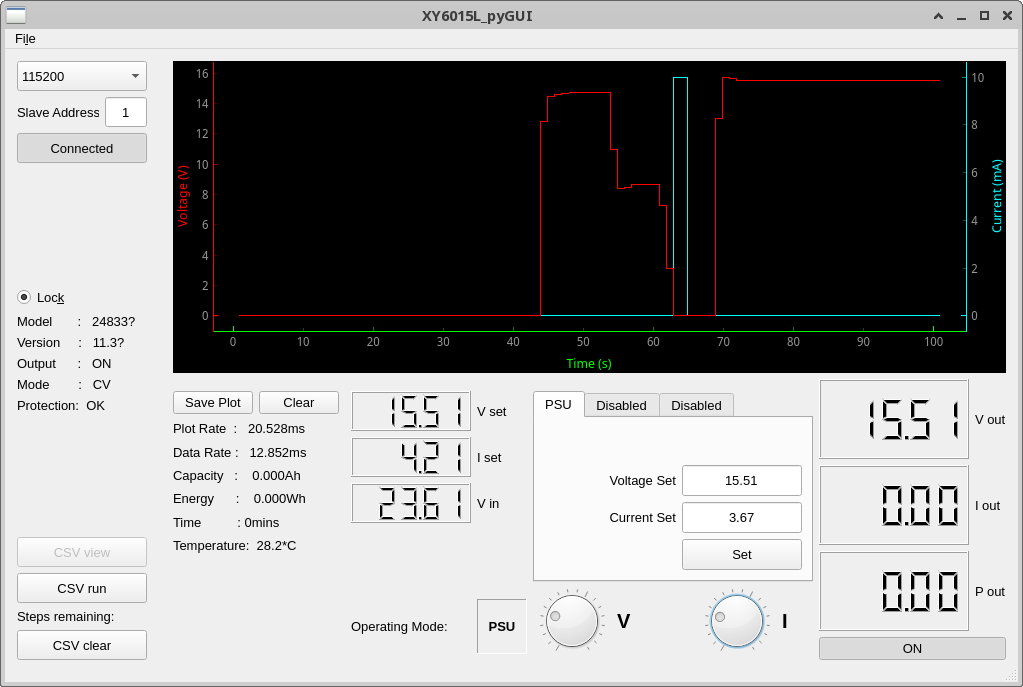
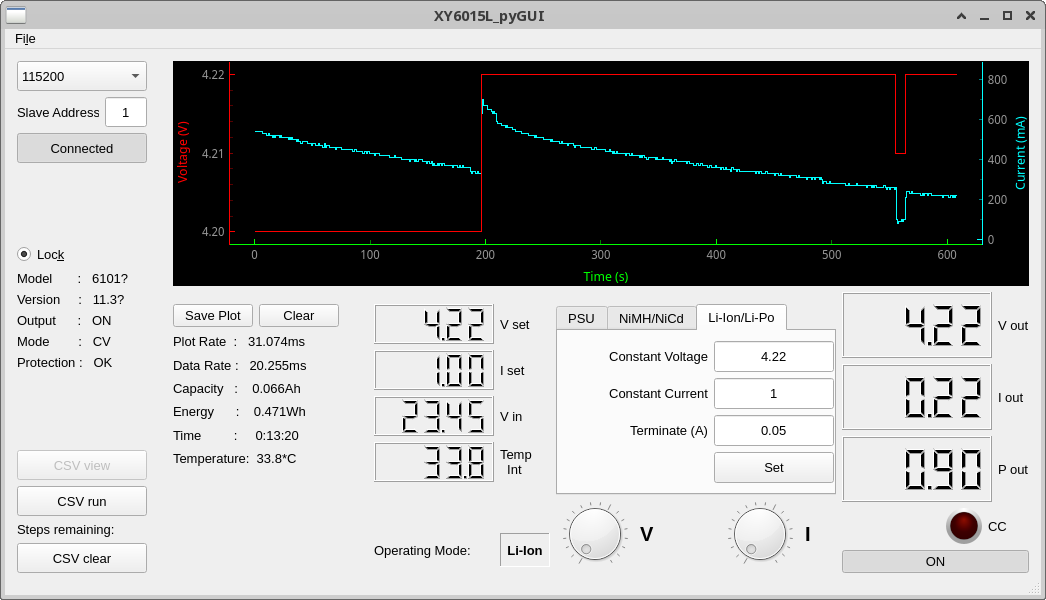
Added LEDs to the GUI
Fixed dps_modbus.py

diff --git a/source_files/dps_modbus.py b/source_files/dps_modbus.py
@@ -103,37 +103,37 @@ class Dps5005:
 	def version(self):	# R
 		return self.function(23, self.limits.decimals_version)
 
-	def extract_m(self, RWaction='r', value=0.0):	# R/W
-		return self.function(0x23, 0, RWaction, value, self.limits.extract_m_set_max, self.limits.extract_m_set_min) # reg_addr, decimal_places, RWaction, value, max_value, min_value
+	# def extract_m(self, RWaction='r', value=0.0):	# R/W
+		# return self.function(0x23, 0, RWaction, value, self.limits.extract_m_set_max, self.limits.extract_m_set_min) # reg_addr, decimal_places, RWaction, value, max_value, min_value
 				
-#---		
+# #---		
 		
-	def voltage_set2(self, RWaction='r', value=0.0):	# R/W
-		return self.function(0x50, self.limits.decimals_vset, RWaction, value, self.limits.voltage_set2_max, self.limits.voltage_set2_min) # reg_addr, decimal_places, RWaction, value, max_value, min_value
+	# def voltage_set2(self, RWaction='r', value=0.0):	# R/W
+		# return self.function(0x50, self.limits.decimals_vset, RWaction, value, self.limits.voltage_set2_max, self.limits.voltage_set2_min) # reg_addr, decimal_places, RWaction, value, max_value, min_value
 			
-	def current_set2(self, RWaction='r', value=0.0):	# R/W
-		return self.function(0x51, self.limits.decimals_iset, RWaction, value, self.limits.current_set2_max, self.limits.current_set2_min) # reg_addr, decimal_places, RWaction, value, max_value, min_value
+	# def current_set2(self, RWaction='r', value=0.0):	# R/W
+		# return self.function(0x51, self.limits.decimals_iset, RWaction, value, self.limits.current_set2_max, self.limits.current_set2_min) # reg_addr, decimal_places, RWaction, value, max_value, min_value
 
-	def s_ovp(self, RWaction='r', value=0):	# R/W
-		return self.function(0x52, self.limits.decimals_ovp, RWaction, value, self.limits.s_ovp_set_max, self.limits.s_ovp_set_min) # reg_addr, decimal_places, RWaction, value, max_value, min_value
+	# def s_ovp(self, RWaction='r', value=0):	# R/W
+		# return self.function(0x52, self.limits.decimals_ovp, RWaction, value, self.limits.s_ovp_set_max, self.limits.s_ovp_set_min) # reg_addr, decimal_places, RWaction, value, max_value, min_value
 		
-	def s_ocp(self, RWaction='r', value=0):	# R/W
-		return self.function(0x53, self.limits.decimals_ocp, RWaction, value, self.limits.s_ocp_set_max, self.limits.s_ocp_set_min) # reg_addr, decimal_places, RWaction, value, max_value, min_value
+	# def s_ocp(self, RWaction='r', value=0):	# R/W
+		# return self.function(0x53, self.limits.decimals_ocp, RWaction, value, self.limits.s_ocp_set_max, self.limits.s_ocp_set_min) # reg_addr, decimal_places, RWaction, value, max_value, min_value
 
-	def s_opp(self, RWaction='r', value=0):	# R/W
-		return self.function(0x54, self.limits.decimals_opp, RWaction, value, self.limits.s_opp_set_max, self.limits.s_opp_set_min) # reg_addr, decimal_places, RWaction, value, max_value, min_value
+	# def s_opp(self, RWaction='r', value=0):	# R/W
+		# return self.function(0x54, self.limits.decimals_opp, RWaction, value, self.limits.s_opp_set_max, self.limits.s_opp_set_min) # reg_addr, decimal_places, RWaction, value, max_value, min_value
 
-	def b_led2(self, RWaction='r', value=0):	# R/W
-		return self.function(0x55, 0, RWaction, value, self.limits.b_led2_set_max, self.limits.b_led2_set_min) # reg_addr, decimal_places, RWaction, value, max_value, min_value
+	# def b_led2(self, RWaction='r', value=0):	# R/W
+		# return self.function(0x55, 0, RWaction, value, self.limits.b_led2_set_max, self.limits.b_led2_set_min) # reg_addr, decimal_places, RWaction, value, max_value, min_value
 
-	def m_pre(self, RWaction='r', value=0):	# R/W
-		return self.function(0x56, 0, RWaction, value, self.limits.m_pre_set_max, self.limits.m_pre_set_min) # reg_addr, decimal_places, RWaction, value, max_value, min_value
+	# def m_pre(self, RWaction='r', value=0):	# R/W
+		# return self.function(0x56, 0, RWaction, value, self.limits.m_pre_set_max, self.limits.m_pre_set_min) # reg_addr, decimal_places, RWaction, value, max_value, min_value
 	
-	def s_ini(self, RWaction='r', value=0):	# R/W
-		return self.function(0x57, 0, RWaction, value, self.limits.s_ini_set_max, self.limits.s_ini_set_min) # reg_addr, decimal_places, RWaction, value, max_value, min_value
+	# def s_ini(self, RWaction='r', value=0):	# R/W
+		# return self.function(0x57, 0, RWaction, value, self.limits.s_ini_set_max, self.limits.s_ini_set_min) # reg_addr, decimal_places, RWaction, value, max_value, min_value
 	
 	def read_all(self, RWaction='r', value=0.0):	# Read data as a block, much faster than individual reads
-		data = self.functions(0x00, 30, RWaction, value) # reg_addr, number of bytes16, RWaction, value
+		data = self.functions(0x00, 30, RWaction, value) # reg_addr, number of bytes, RWaction, value
 		#--- adjust values to floating points
 		data[0] = data[0] / float(10**self.limits.decimals_vset)	#100.0	# voltage_set
 		data[1] = data[1] / float(10**self.limits.decimals_iset)	#1000.0	# current_set
@@ -244,7 +244,7 @@ if __name__ == '__main__':
 	dps = Dps5005(ser, limits)
 	try:
 		while True:
-			route = raw_input("Enter command: ")
+			route = input("Enter command: ")
 			if route == "q":
 				quit()
 			elif route == "read":
@@ -252,7 +252,7 @@ if __name__ == '__main__':
 				print(dps.read_all())
 				print(time.time() - start)	
 			elif route == "write":
-				value = [23.47, 1.234]
+				value = [23.47, 1.23]
 				dps.write_voltage_current('w', value)
 			elif route == "r":
 				start = time.time()
@@ -268,49 +268,49 @@ if __name__ == '__main__':
 				print("protection  :  %6s" % dps.protect())	
 				print("cv_cc       :  %6s" % dps.cv_cc())
 				print("onoff       :  %6s" % dps.onoff())
-				print("b_led       :  %6s" % dps.b_led())
-				print("model       :  %6s" % dps.model())
+				#print("b_led       :  %6s" % dps.b_led())
+				print("model       :  %6x" % dps.model())
 				print("version     :  %6s" % dps.version())
-				print("extract_m   :  %6s" % dps.extract_m())
+				# print("extract_m   :  %6s" % dps.extract_m())
 				
-				print("voltage_set2:  %6s" % dps.voltage_set2())	
-				print("current_set2:  %6s" % dps.current_set2())
-				print("s_ovp       :  %6s" % dps.s_ovp())
-				print("s_ocp       :  %6s" % dps.s_ocp())
-				print("s_opp       :  %6s" % dps.s_opp())
-				print("b_led2      :  %6s" % dps.b_led2())
-				print("m_pre       :  %6s" % dps.m_pre())
-				print("s_ini       :  %6s" % dps.s_ini())
+				# print("voltage_set2:  %6s" % dps.voltage_set2())	
+				# print("current_set2:  %6s" % dps.current_set2())
+				# print("s_ovp       :  %6s" % dps.s_ovp())
+				# print("s_ocp       :  %6s" % dps.s_ocp())
+				# print("s_opp       :  %6s" % dps.s_opp())
+				# print("b_led2      :  %6s" % dps.b_led2())
+				# print("m_pre       :  %6s" % dps.m_pre())
+				# print("s_ini       :  %6s" % dps.s_ini())
 				
 			elif route == "vset":
-				value = raw_input("Enter value: ")
+				value = input("Enter value: ")
 				dps.voltage_set('w', float(value))
 			elif route == "iset":
-				value = raw_input("Enter value: ")
+				value = nput("Enter value: ")
 				dps.current_set('w', float(value))
 			elif route == "lock":
-				value = raw_input("Enter value: ")
+				value = input("Enter value: ")
 				dps.lock('w', float(value))
 			elif route == "on":
 				dps.onoff('w', 1)
 			elif route == "off":
 				dps.onoff('w', 0)		
-			elif route == "bled":
-				value = raw_input("Enter value: ")
-				dps.b_led('w', float(value))		
-			elif route == "sovp":
-				value = raw_input("Enter value: ")
-				dps.s_ovp('w', float(value))
-			elif route == "socp":
-				value = raw_input("Enter value: ")
-				dps.s_ocp('w', float(value))
-			elif route == "sopp":
-				value = raw_input("Enter value: ")
-				dps.s_opp('w', float(value))	
-			elif route == "sini":
-				value = raw_input("Enter value: ")
-				dps.s_ini('w', float(value))
-			elif route == "m":	
+			# elif route == "bled":
+				# value = input("Enter value: ")
+				# dps.b_led('w', float(value))		
+			# elif route == "sovp":
+				# value = input("Enter value: ")
+				# dps.s_ovp('w', float(value))
+			# elif route == "socp":
+				# value = input("Enter value: ")
+				# dps.s_ocp('w', float(value))
+			# elif route == "sopp":
+				# value = input("Enter value: ")
+				# dps.s_opp('w', float(value))	
+			# elif route == "sini":
+				# value = input("Enter value: ")
+				# dps.s_ini('w', float(value))
+			# elif route == "m":	
 				for i in dir(dps):
 					print(i)
 			elif route == "a":	

diff --git a/source_files/dps_GUI_program.py b/source_files/dps_GUI_program.py
@@ -13,7 +13,7 @@ from dps_modbus import Import_limits
 
 from PyQt5.QtCore import pyqtSlot, pyqtSignal, QRunnable, QThreadPool, QTimer, QThread, QCoreApplication, QObject, QMutex, Qt
 from PyQt5.QtWidgets import QApplication, QMainWindow, QSlider, QAction, QFileDialog, QGraphicsView
-from PyQt5.QtGui import QIcon, QFont
+from PyQt5.QtGui import QIcon, QFont, QPixmap
 from PyQt5.uic import loadUi
 
 QApplication.setAttribute(Qt.AA_EnableHighDpiScaling, True)
@@ -112,8 +112,8 @@ class dps_GUI(QMainWindow):
 		self.pushButton_onoff.clicked.connect(self.pushButton_onoff_clicked)		# On / Off
 		
 		self.pushButton_set.clicked.connect(self.pushButton_set_clicked)			# 'Set' - PSU
-		#self.pushButton_set_2.clicked.connect(self.pushButton_set_2_clicked)		# 'Set' - NiMH/NiCad
-		#self.pushButton_set_3.clicked.connect(self.pushButton_set_3_clicked)		# 'Set' - Li-Ion/Lipo
+		self.pushButton_set_2.clicked.connect(self.pushButton_set_2_clicked)		# 'Set' - NiMH/NiCad
+		self.pushButton_set_3.clicked.connect(self.pushButton_set_3_clicked)		# 'Set' - Li-Ion/Lipo
 		
 		self.pushButton_connect.clicked.connect(self.pushButton_connect_clicked)	# 'Connect'
 		
@@ -153,6 +153,10 @@ class dps_GUI(QMainWindow):
 	#--- knobs maximum value
 		self.dial_volt.setMaximum(int(self.limits.voltage_set_max * 10 ** self.limits.decimals_vset))
 		self.dial_curr.setMaximum(int(self.limits.current_set_max * 10 ** self.limits.decimals_iset))
+		
+	#--- icons
+		self.pix_on=QPixmap("icon/led_on.png")
+		self.pix_off=QPixmap("icon/led_off.png")
 	
 	def closeEvent(self, event):    
 		self.shutdown() # switch OFF output when application closes to prevent unmonitored charging
@@ -522,7 +526,7 @@ class dps_GUI(QMainWindow):
 		if value == 0:
 			self.label_operating_mode.setText('PSU')
 		elif value == 1:
-			self.label_operating_mode.setText('NiCad')
+			self.label_operating_mode.setText('NiMH')
 			if float(self.vout) > float(self.v_peak):   # find peak voltage
 				self.v_peak = float(self.vout)
 			if self.pushButton_onoff.isChecked() and (time.time() - self.pushButton_on_start_time > 5): # adds 5sec delay, to prevent immediate switch OFF
@@ -574,6 +578,7 @@ class dps_GUI(QMainWindow):
 			self.lcdNumber_iset.display("%5.2f" % data[1])  # iset
 			self.lcdNumber_vout.display(self.vout)  # vout
 			self.lcdNumber_iout.display(self.iout)  # iout
+			self.lcdNumber_temp_internal.display("%3.1f" % data[13])  # temperature internal
 			
 			self.lcdNumber_pout.display("%5.2f" % data[4])  # power
 			self.lcdNumber_vin.display("%5.2f" % data[5])       # vin
@@ -584,22 +589,29 @@ class dps_GUI(QMainWindow):
 			else:
 				self.radioButton_lock.setChecked(False)
 				
-		# protection
+		# protection  not all values implemented
 			value = data[16]
 			if value == 1:
-				self.label_protect.setText('Protection :  OVP out')
+				self.label_protect.setText('Protection :   OVP out')
+				self.label_led_prot.setPixmap(self.pix_on)
 			elif value == 2:
-				self.label_protect.setText('Protection :  OCP out')
+				self.label_protect.setText('Protection :   OCP out')
+				self.label_led_prot.setPixmap(self.pix_on)
 			elif value == 3:
-				self.label_protect.setText('Protection :  OPP out')
+				self.label_protect.setText('Protection :   OPP out')
+				self.label_led_prot.setPixmap(self.pix_on)
 			elif value == 4:
-				self.label_protect.setText('Protection :  UVP in')
+				self.label_protect.setText('Protection :   UVP in')
+				self.label_led_prot.setPixmap(self.pix_on)
 			elif value == 7:
-				self.label_protect.setText('Protection :  OTP inter')
+				self.label_protect.setText('Protection :   OTP inter')
+				self.label_led_prot.setPixmap(self.pix_on)
 			elif value == 0:
-				self.label_protect.setText('Protection :  OK')
+				self.label_protect.setText('Protection :   OK')
+				self.label_led_prot.setPixmap(self.pix_off)
 			else:
-				self.label_protect.setText('Protection :  ??')
+				self.label_protect.setText('Protection :   ??')
+				self.label_led_prot.setPixmap(self.pix_on)
 				
 		# temp
 			self.label_temp.setText('Temperature:  %3.1f*C' % data[13])
@@ -607,14 +619,16 @@ class dps_GUI(QMainWindow):
 		# energy
 			self.label_energy.setText('Energy      :    %5.3fWh' % data[8])
 			
-		# time     0-60 mins. to be fixed, HH:MM:SS
-			self.label_time.setText('Time          :   %2d mins' % data[11])
+		# time
+			self.label_time.setText('Time         :   %3d:%02d:%02d' % (data[10], data[11], data[12]))
 
 		# cv/cc 
 			if data[17] == 1:
 				self.label_cccv.setText('Mode        :   CC')
+				self.label_led.setPixmap(self.pix_on)
 			else:
 				self.label_cccv.setText('Mode        :   CV')
+				self.label_led.setPixmap(self.pix_off)
 
 		# on/off    
 			value = data[18]
@@ -632,7 +646,7 @@ class dps_GUI(QMainWindow):
 			# self.horizontalSlider_brightness.setValue(value)    # brightness
 			# self.label_brightness.setText('Brightness Level:   %s' % value)
 			
-			self.label_model.setText("Model       :   %s?" % data[22])   # model
+			self.label_model.setText("Model       :   %x?" % data[22])   # model
 			self.label_version.setText("Version     :   %s?" % data[23]) # version
 
 #--- send commands to dps 

diff --git a/hardware_issues/README.md b/hardware_issues/README.md
@@ -1,0 +1,9 @@
+## Hardware Issues
+
+XY6015L has problems with CC-CV transitions, highlighted in yellow.
+I do not advise using the app's battery charging features because described issue offten trips charging. 
+
+![](../images/CC_CV_transition.png)
+
+XY6015L test
+https://www.youtube.com/watch?v=uW1Q7_1sezU
